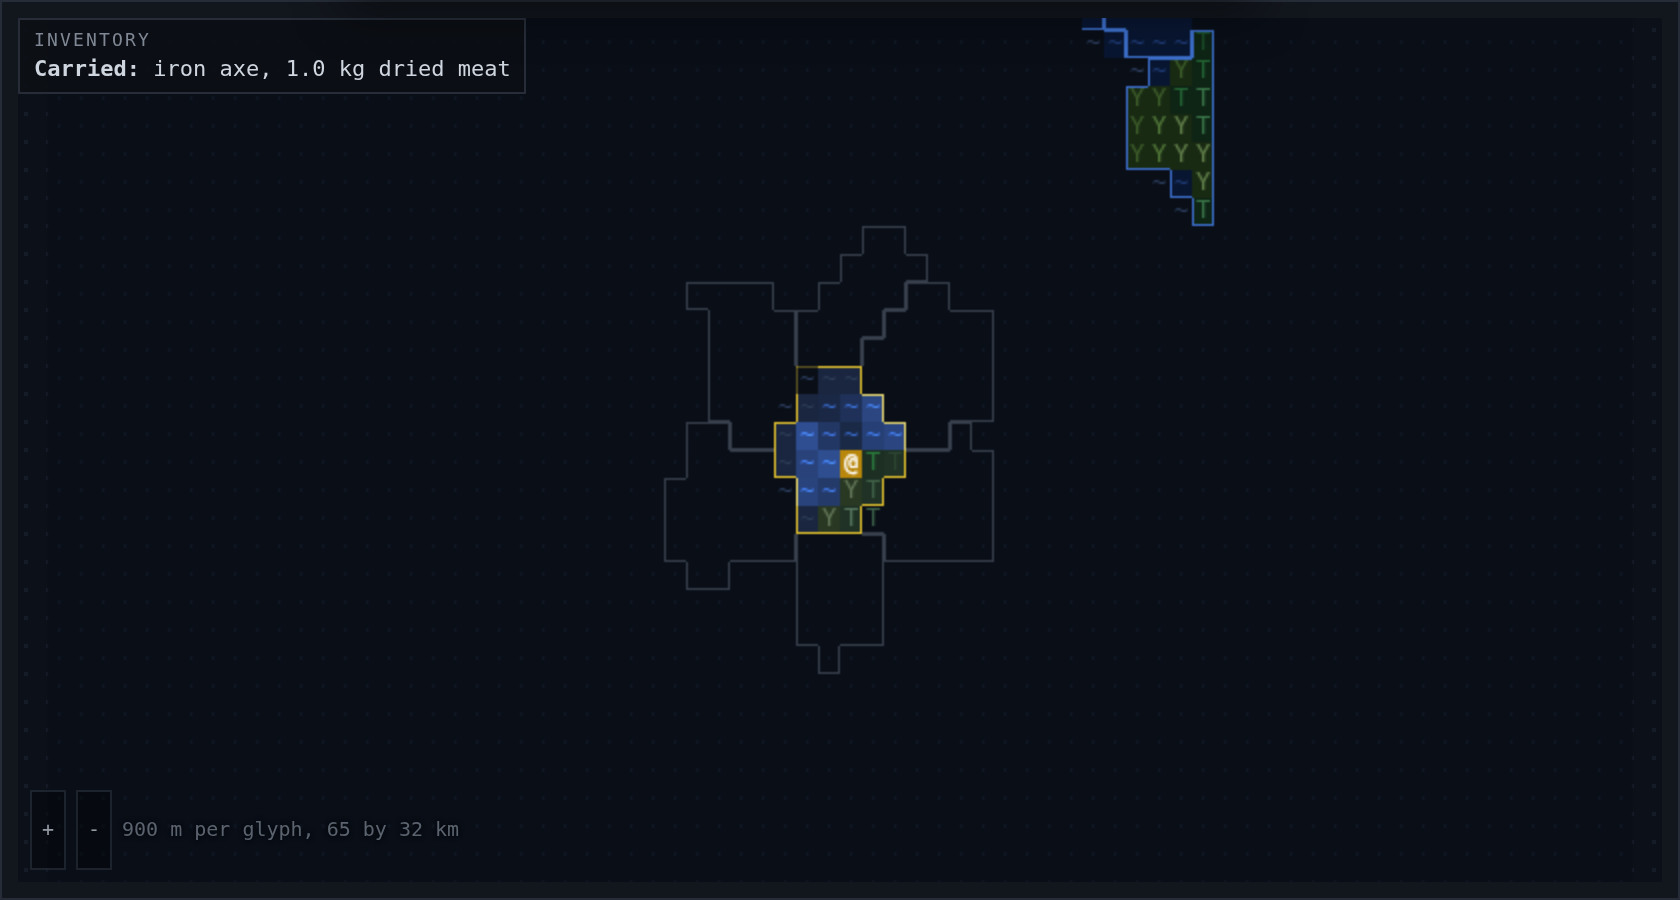
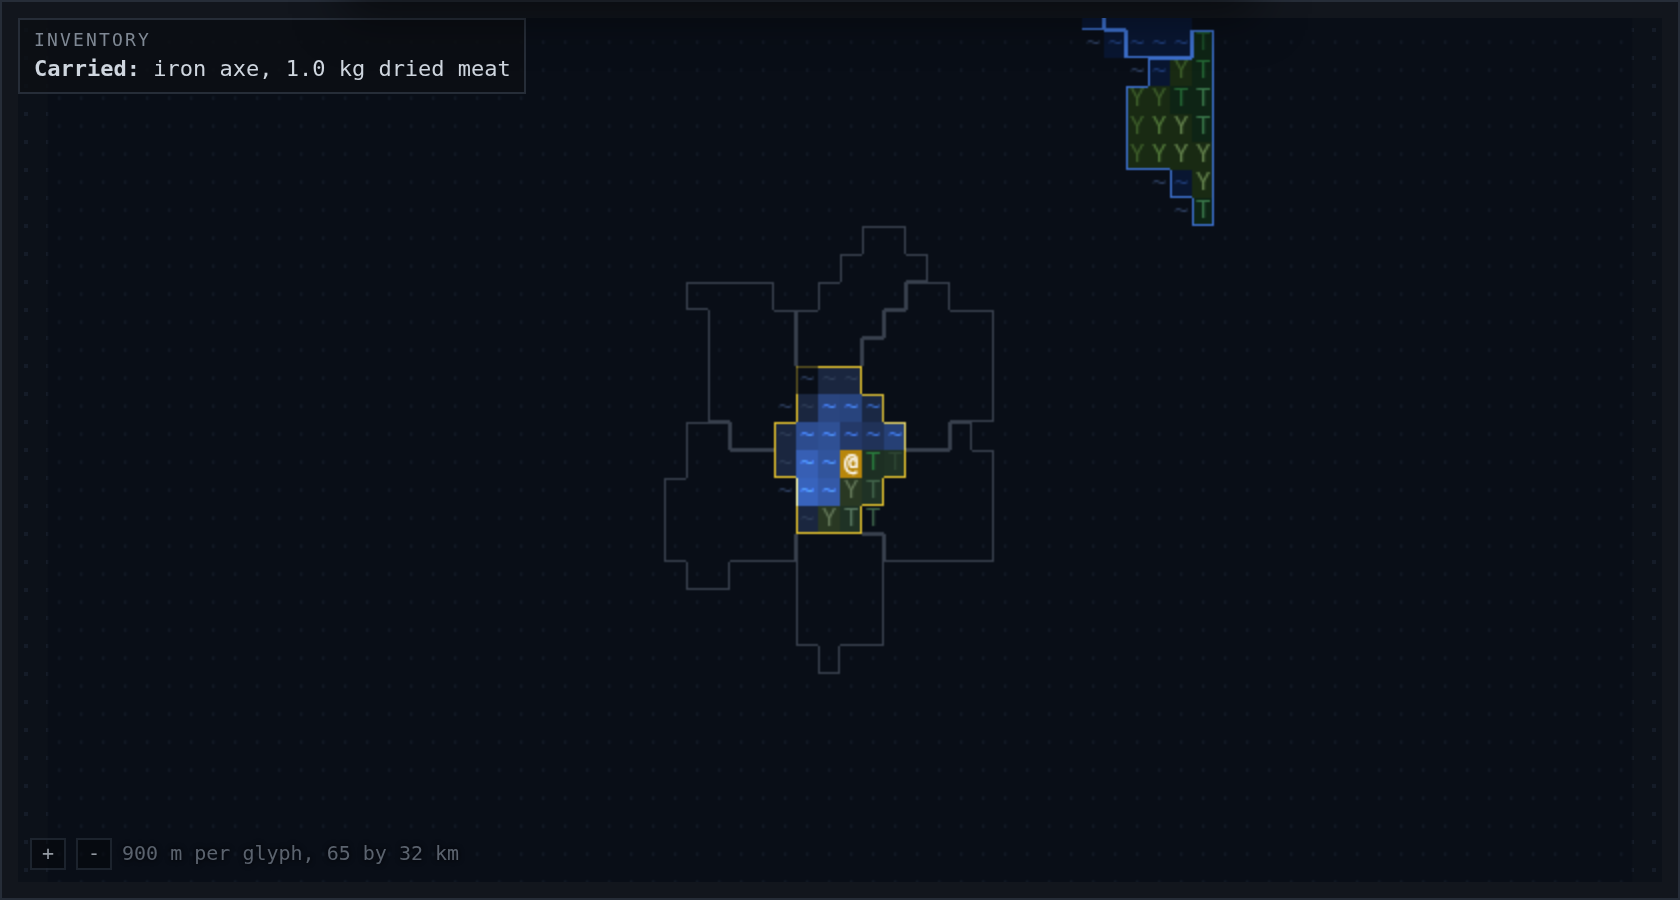
fix(survidle): photograph the desktop page with a mouse, and draw the switch as a map control
Two things, both about the same complaint: the controls on the board looked
wrong.

**The shots were of the phone layout.** Headless Chrome reports no pointer, so
`@media (hover: none)` matched and the 40px touch minimum landed on every
control: the zoom buttons photographed 18 by 40 where a desktop player sees
18 by 16 - tall thin slots, misaligned with the corner, in every image taken
today. Measured on both revisions, the geometry is identical (w 18, h 40, x
335, y 473, min-height 40px on `1b6c9a6` and on this branch), so nothing here
regressed it; the camera was wrong, not the game. `setEmulatedMedia` is
accepted and does not move hover or pointer in this build, so the harness
sets them at launch through `--blink-settings`. Every shot in
docs/heir-map-shots and docs/view-shots is re-taken, and both READMEs say so,
because a picture nobody can trust is worse than no picture.

**The switch was a card laid on the board.** The map already has two
conventions and the switch obeyed neither: an info overlay gets a box
(`#mapinventory`), a control that lives on the board does not (`.maptools`,
whose own comment says "No box, so the ground shows through behind it"). A
bordered panel floating over the ground was the odd thing out. The switch is
now drawn as `.maptools` is drawn, at the other corner, and the camp's
caption keeps the box it shares with the carried line - it is information,
not a control.

Fast suite 1415 passing, build and lint clean.
[…]

Changed region(s): [[0.0619, 0.9022, 0.1857, 0.9644], [0.4643, 0.4356, 0.5262, 0.56], [0.2167, 0.9022, 0.2786, 0.9644]]

diff --git a/08-survidle/src/style.css b/08-survidle/src/style.css
@@ -99,17 +99,12 @@ body { display: flex; flex-direction: column; height: 100vh; }
 /* The view switch lives on the board it governs, opposite the carried line,
    so the page carries one band of tabs fewer. Its own row has no bottom rule
    and no bottom margin: it is a control on a picture, not a pane header. */
-#mapview {
-  position: absolute;
-  z-index: 4;
-  top: var(--map-overlay-inset);
-  right: var(--map-overlay-inset);
-  background: rgba(12, 15, 20, 0.82);
-  border: 1px solid var(--line);
-  padding: 2px 4px;
-}
-#mapview .tabs { border-bottom: none; margin-bottom: 0; }
-#mapview .tab { padding: 2px 10px; }
+/* Same treatment as the zoom, at the other end of the board: `.maptools`
+   carries the box-less look and the hover, this only moves it to the top
+   right. The showing view is the accent, the way a chosen thing is
+   everywhere else. */
+#mapview { left: auto; right: 6px; top: 6px; bottom: auto; }
+#mapview .mini.on { color: var(--accent); }
 
 .subs { display: flex; gap: 4px; flex-wrap: wrap; margin: 4px 0 6px; }
 .subs:empty { display: none; }

diff --git a/08-survidle/src/ui/view.ts b/08-survidle/src/ui/view.ts
@@ -197,10 +197,13 @@ export function saveView(view: View, storage: Storage = localStorage): void {
  * describes, which is `campViewHtml` below.
  */
 export function viewSwitchHtml(view: View): string {
-  const buttons = VIEWS
-    .map((id) => `<button class="tab${id === view ? " on" : ""}" data-act="view" data-view="${id}">${VIEW_WORDS[id]}</button>`)
+  // Drawn as the map's own controls are drawn, not as a panel laid on top:
+  // the board already has a convention for a control that lives on it - the
+  // zoom's `.maptools`, box-less with a shadow behind its words - and one
+  // bordered card floating over the ground is the odd thing out.
+  return VIEWS
+    .map((id) => `<button class="mini${id === view ? " on" : ""}" data-act="view" data-view="${id}">${VIEW_WORDS[id]}</button>`)
     .join("");
-  return `<div class="tabs">${buttons}</div>`;
 }
 
 /**

diff --git a/08-survidle/index.html b/08-survidle/index.html
@@ -65,7 +65,7 @@
           <!-- The view switch, on the board it governs rather than in a row
                of its own above it: one less band of tab-shaped things across
                the page (playtest 2026-09-19, note 140). -->
-          <div id="mapview"></div>
+          <div id="mapview" class="maptools"></div>
           <!-- One element, in the markup from the start, so it is shown and
                hidden rather than created and destroyed under the pointer. -->
           <div id="maptip" hidden></div>

diff --git a/08-survidle/docs/view-shots/README.md b/08-survidle/docs/view-shots/README.md
@@ -50,3 +50,17 @@ An heir's camp view before they have found the old camp: the board moves to
 where the camp is and draws fog, because the country is not theirs to read
 yet (roadmap Q ruling 1). Correct, and worth keeping in mind - camp view is
 empty for exactly as long as the walk home takes.
+
+## A note on the harness
+
+These were re-taken on 2026-09-19. The first set was wrong in a way no
+assertion caught: headless Chrome reports no pointer, so `@media (hover: none)`
+matched and the phone's 40px touch minimum landed on every control. The zoom
+buttons photographed 18 by 40 where a desktop player sees 18 by 16 - tall thin
+slots, misaligned with the corner, in every shot. `setEmulatedMedia` is
+accepted and does not move those features in this build, so the harness sets
+the hover and pointer types at launch (`--blink-settings=primaryHoverType=2,
+availableHoverTypes=2,primaryPointerType=4,availablePointerTypes=4`).
+
+A shot of the desktop page has to be taken with a mouse. Anything photographed
+before that flag is a picture of the phone layout wearing the desktop's width.

diff --git a/08-survidle/docs/heir-map-shots/README.md b/08-survidle/docs/heir-map-shots/README.md
@@ -51,3 +51,17 @@ own axe. Ground the ancestors only walked elsewhere stays unknown.
 
 There is no before for this one. It is new behaviour: before the change the
 ground was already dim and there was nothing to hand back.
+
+## A note on the harness
+
+These were re-taken on 2026-09-19. The first set was wrong in a way no
+assertion caught: headless Chrome reports no pointer, so `@media (hover: none)`
+matched and the phone's 40px touch minimum landed on every control. The zoom
+buttons photographed 18 by 40 where a desktop player sees 18 by 16 - tall thin
+slots, misaligned with the corner, in every shot. `setEmulatedMedia` is
+accepted and does not move those features in this build, so the harness sets
+the hover and pointer types at launch (`--blink-settings=primaryHoverType=2,
+availableHoverTypes=2,primaryPointerType=4,availablePointerTypes=4`).
+
+A shot of the desktop page has to be taken with a mouse. Anything photographed
+before that flag is a picture of the phone layout wearing the desktop's width.
